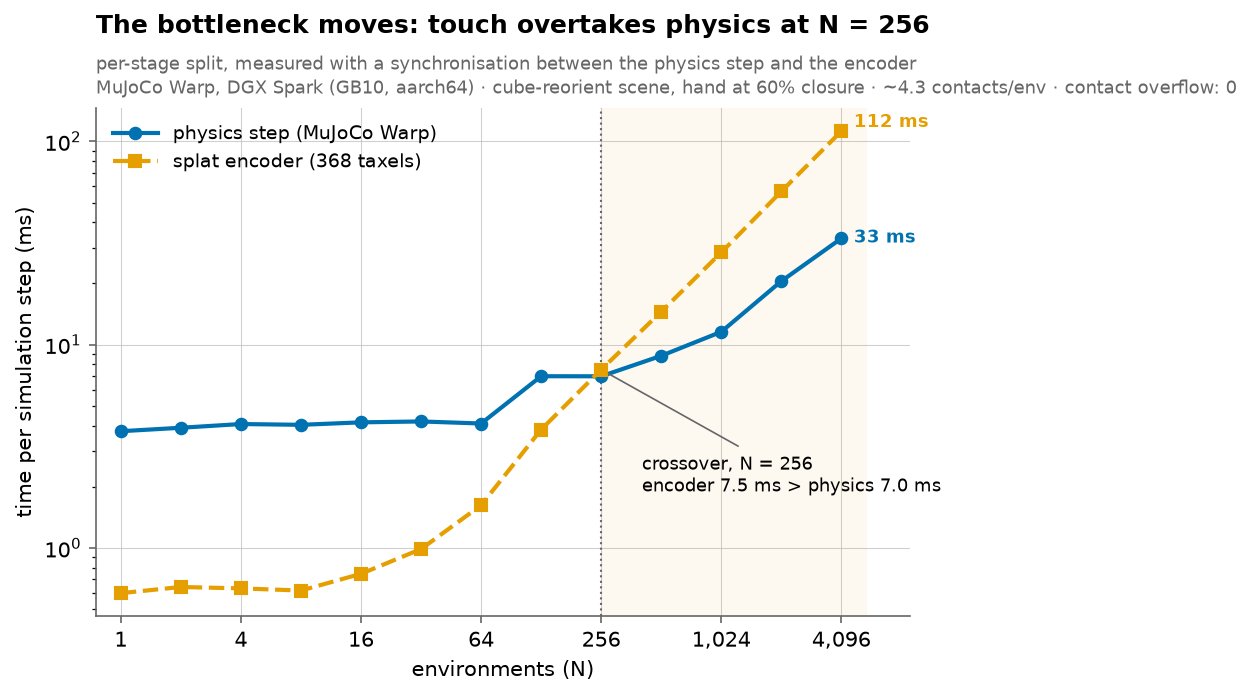
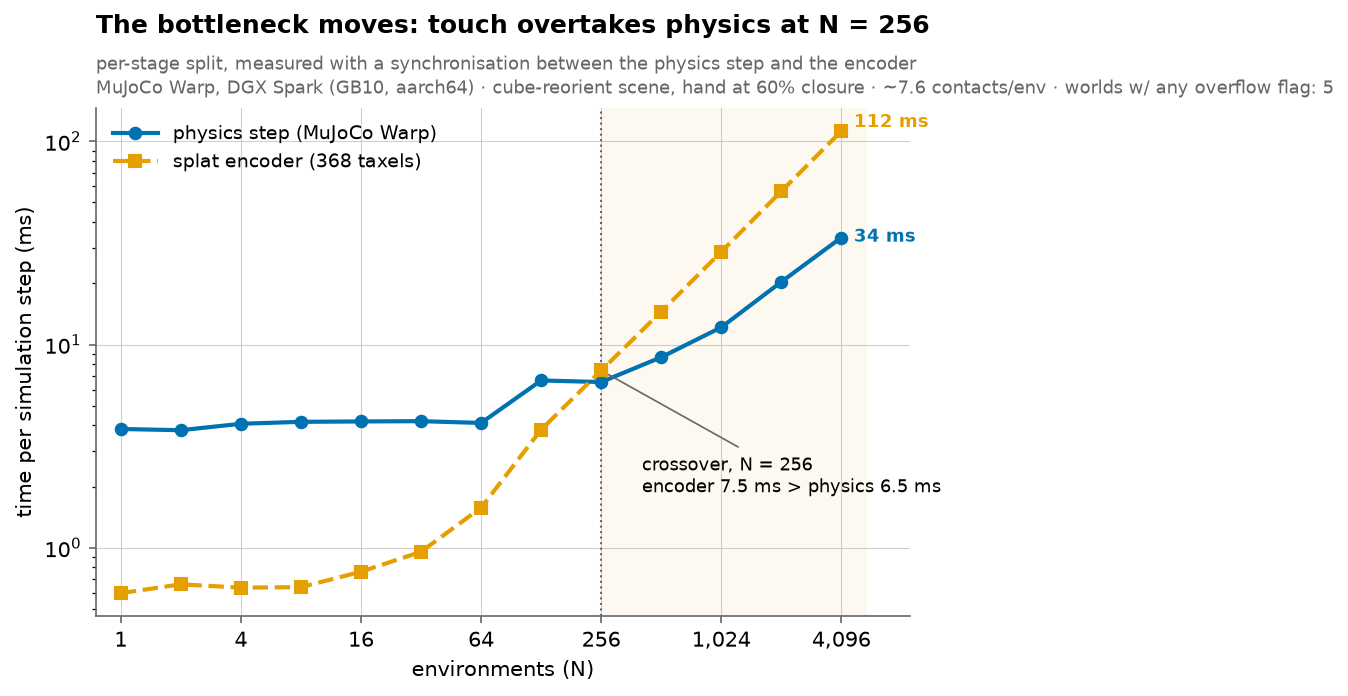
Regenerate figures from the sim_dt=0.01 sweeps; fix a mislabelled subtitle
plots.py now selects the sweep set via SWEEP_SUFFIX (default _dt01), so both
timestep datasets stay plottable.

Decoded the overflow flag that appears at dt=0.01: it is OverflowType.NEFC
(constraint rows), not contacts -- Warp asks for njmax 124 against the
configured 120, on 2 of 4096 worlds (0.049%). Contacts sit at 7.1/env
against a 48 cap. The figure subtitle called this 'contact overflow', which
was wrong; it counts any overflow bit.

Worth reporting upstream: njmax=120 is marginally tight at the supervisor's
own sim_dt.

diff --git a/analysis/plots.py b/analysis/plots.py
@@ -29,6 +29,7 @@ also differs in line style and marker so identity never rests on hue alone.
 from __future__ import annotations
 
 import csv
+import os
 import pathlib
 
 import matplotlib
@@ -43,9 +44,15 @@ RESULTS = ROOT / "benchmarks" / "results"
 OUT = ROOT / "analysis" / "plots"
 DPI = 150
 
-PHYSICS_CSV = RESULTS / "scale_sweep_physics_only.csv"
-SPLAT_CSV = RESULTS / "scale_sweep_splat.csv"
-TRITON_CSV = RESULTS / "scale_sweep_splat_triton.csv"
+# Which sweep set to plot. The `_dt01` CSVs ran at sim_dt=0.01, matching the
+# supervisor's env_cfg.py; the unsuffixed ones inherited timestep=0.001 from the
+# scene's included XML and are kept only for reference (see HYPOTHESES.md D9).
+# Override with SWEEP_SUFFIX="" to regenerate the older figures.
+SWEEP_SUFFIX = os.environ.get("SWEEP_SUFFIX", "_dt01")
+
+PHYSICS_CSV = RESULTS / f"scale_sweep_physics_only{SWEEP_SUFFIX}.csv"
+SPLAT_CSV = RESULTS / f"scale_sweep_splat{SWEEP_SUFFIX}.csv"
+TRITON_CSV = RESULTS / f"scale_sweep_splat_triton{SWEEP_SUFFIX}.csv"
 KERNEL_CSV = RESULTS / "kernel_bench.csv"
 
 # Okabe-Ito. BLUE/ORANGE are the two that must never be confused (they carry the
@@ -200,7 +207,11 @@ def setup_note(splat: dict[str, np.ndarray]) -> str:
     contacts = float(np.nanmean(splat["contacts_per_env"]))
     overflow = int(np.nansum(splat["overflow_worlds"]))
     return (f"MuJoCo Warp, DGX Spark (GB10, aarch64) · cube-reorient scene, hand at 60% closure · "
-            f"~{contacts:.1f} contacts/env · contact overflow: {overflow}")
+            # `overflow_worlds` counts worlds raising ANY Warp overflow bit, not
+            # contacts specifically. At sim_dt=0.01 the flag that fires is NEFC
+            # (constraint rows, njmax=120 -> wants 124); contacts sit at ~7/env
+            # against a 48 cap. Labelling this "contact overflow" would be wrong.
+            f"~{contacts:.1f} contacts/env · worlds w/ any overflow flag: {overflow}")
 
 
 # --------------------------------------------------------------------------- #

diff --git a/HYPOTHESES.md b/HYPOTHESES.md
@@ -248,6 +248,16 @@ for the encoder, and the finding survives it:
 | 1024 | 78,349 | 25,148 | 77,361 | 3.12× | **1.01×** |
 | 4096 | 128,061 | 28,006 | **116,961** | **4.57×** | **1.09×** |
 
+**Incidental finding — `njmax=120` is marginally tight at `sim_dt=0.01`.** At the
+supervisor's own timestep, **2 of 4096 worlds (0.049%)** raise `OverflowType.NEFC`;
+Warp reports *"nefc overflow — please increase njmax to 124"* (observed up to
+128). Contacts are nowhere near their limit: 7.1/env against the 48 cap, so this
+is **constraint-row overflow, not contact overflow**. It does not appear at
+`dt=0.001`. Minor at 0.05% of worlds, but it is the supervisor's configured value
+and worth reporting to him. ⚠ The harness's `overflow_worlds` column counts *any*
+overflow bit, so it must not be read as a contact-budget figure — and the plot
+subtitle labelling it "contact overflow" is wrong and needs correcting.
+
 **Cost of touch 4.57× → 1.09×, kernel gain 4.18×** — within 2% of the
 `dt=0.001` figures despite 75% more contacts. The result is not an artifact of a
 gentle contact regime. **Quote these numbers, not the `dt=0.001` ones**, since
